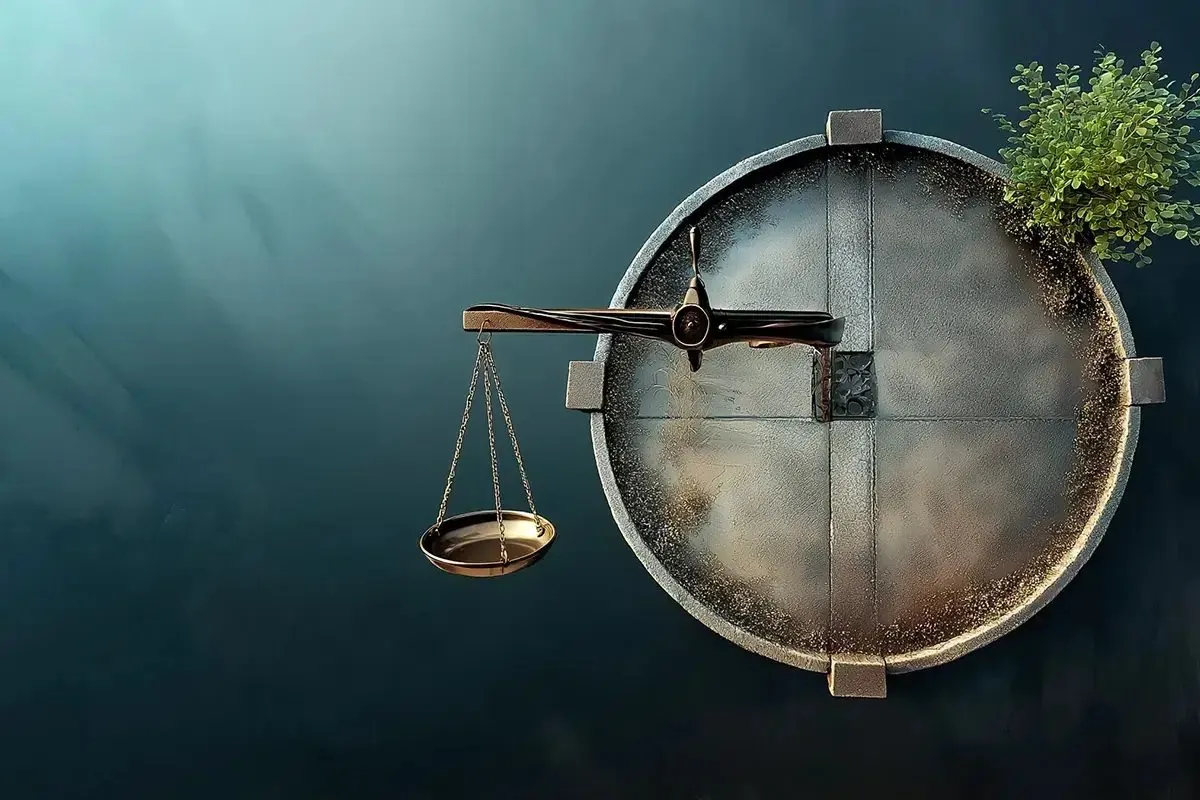
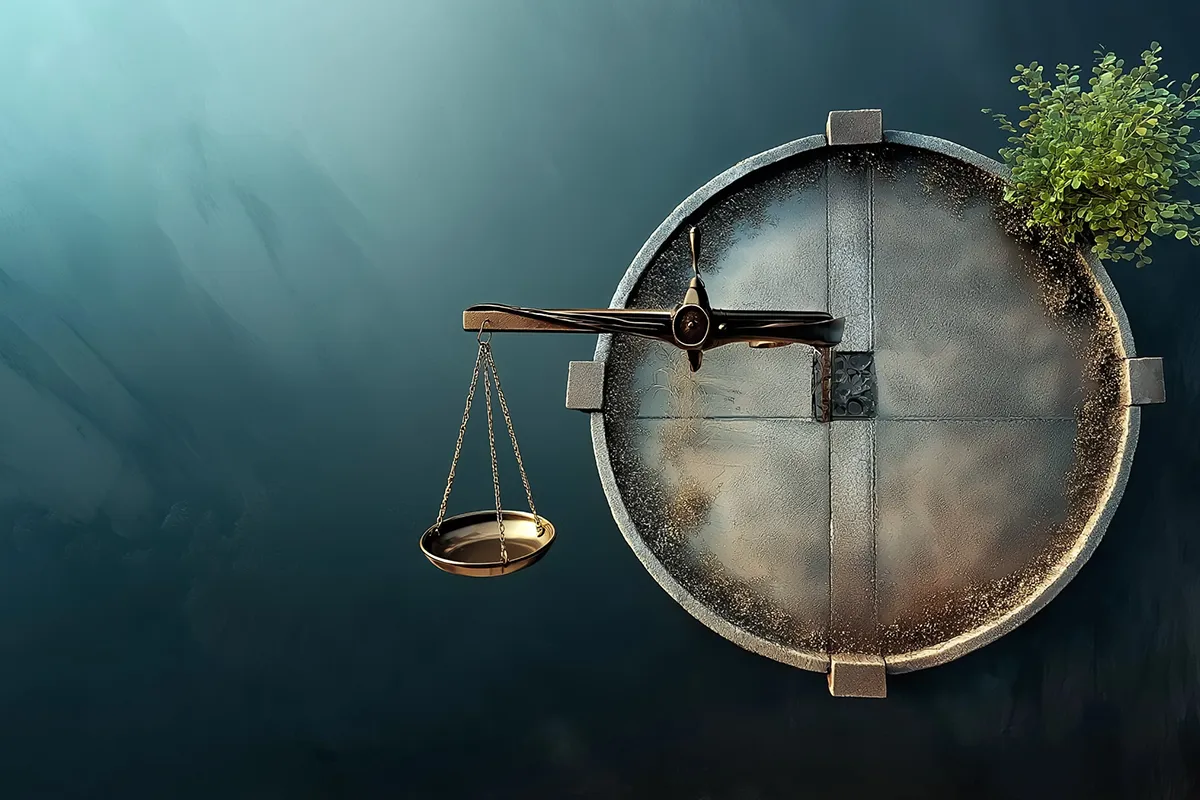
Fotos a color, sin recomprimir y sin ampliar
- Vuelven a color (las prefiere Costi)
- Se usan los archivos originales del backup en lugar de copias recomprimidas
- La banda se alinea con el ancho del contenido, para no ampliar fotos de 1200 px

Claude-Session: https://claude.ai/code/session_01VzFi1JvKP2KNUvey29o5pg

Changed region(s): [[0.8633, 0.25, 0.8942, 0.2812], [0.8633, 0.1875, 0.8942, 0.2188]]

diff --git a/index.html b/index.html
@@ -16,7 +16,7 @@ description: "Asesoramiento legal en derecho civil, sucesiones y mercantil. Cons
   <img class="portada__retrato" src="{{ '/assets/img/constanza-sitja-800.webp' | relative_url }}" srcset="{{ '/assets/img/constanza-sitja-800.webp' | relative_url }} 646w, {{ '/assets/img/constanza-sitja.webp' | relative_url }} 900w" sizes="(min-width: 900px) 360px, 90vw" width="360" height="446" alt="Retrato de Constanza Sitjà">
 </section>
 
-<div class="banda"><img style="object-position: center 58%" class="banda-foto banda-foto--alta" src="{{ '/assets/img/inicio.webp' | relative_url }}" srcset="{{ '/assets/img/inicio-800.webp' | relative_url }} 800w, {{ '/assets/img/inicio.webp' | relative_url }} 1200w" sizes="100vw" alt="" loading="lazy"></div>
+<div class="banda"><img style="object-position: center 58%" class="banda-foto banda-foto--alta" src="{{ '/assets/img/inicio.webp' | relative_url }}" srcset="{{ '/assets/img/inicio-800.webp' | relative_url }} 800w, {{ '/assets/img/inicio.webp' | relative_url }} 1200w" sizes="(min-width: 1200px) 1200px, 100vw" alt="" loading="lazy"></div>
 
 <section class="areas-resumen" aria-label="Ámbito de práctica">
   <div class="contenedor areas-resumen__rejilla">

diff --git a/assets/css/main.css b/assets/css/main.css
@@ -67,12 +67,11 @@ p { margin: 0; }
 .menu a[aria-current="page"] { border-bottom-color: var(--verde); }
 
 /* Fotos en banda */
-.banda { position: relative; background: var(--verde); }
-/* Fotos en blanco y negro, como el retrato. Para volver al velo verde:
-   .banda::after { content: ""; position: absolute; inset: 0; background: var(--verde); mix-blend-mode: color; opacity: 0.25; } */
-.banda .banda-foto { filter: grayscale(1) contrast(1.05); }
-.banda-foto { width: 100%; height: clamp(220px, 23vw, 440px); object-fit: cover; }
-.banda-foto--alta { height: clamp(240px, 30vw, 560px); }
+.banda { position: relative; max-width: calc(var(--ancho) - 64px); margin: 0 auto; }
+/* Las fotos de origen miden unos 1200 px: la banda se alinea con el contenido para no ampliarlas */
+
+.banda-foto { width: 100%; height: clamp(220px, 23vw, 300px); object-fit: cover; }
+.banda-foto--alta { height: clamp(240px, 30vw, 380px); }
 
 /* Portada */
 .portada { display: flex; flex-wrap: wrap; align-items: center; gap: 56px; padding-top: 96px; padding-bottom: 88px; }

diff --git a/la-firma.html b/la-firma.html
@@ -4,7 +4,7 @@ title: "La firma"
 permalink: /la-firma/
 description: "Despacho especializado en derecho civil, sucesiones y mercantil. Asesoría jurídica con trato directo, compromiso y experiencia en Barcelona."
 ---
-<div class="banda"><img style="object-position: center 50%" class="banda-foto" src="{{ '/assets/img/la-firma.webp' | relative_url }}" srcset="{{ '/assets/img/la-firma-800.webp' | relative_url }} 800w, {{ '/assets/img/la-firma.webp' | relative_url }} 1200w" sizes="100vw" alt=""></div>
+<div class="banda"><img style="object-position: center 50%" class="banda-foto" src="{{ '/assets/img/la-firma.webp' | relative_url }}" srcset="{{ '/assets/img/la-firma-800.webp' | relative_url }} 800w, {{ '/assets/img/la-firma.webp' | relative_url }} 1200w" sizes="(min-width: 1200px) 1200px, 100vw" alt=""></div>
 
 <section class="firma contenedor">
   <img class="firma__retrato" src="{{ '/assets/img/constanza-sitja.webp' | relative_url }}" width="400" height="496" alt="Retrato de Constanza Sitjà">

diff --git a/ambito-de-practica.html b/ambito-de-practica.html
@@ -4,7 +4,7 @@ title: "Ámbito de práctica"
 permalink: /ambito-de-practica/
 description: "Especialista en derecho civil, sucesiones, mercantil y mediación. Soluciones legales y extrajudiciales con trato cercano y profesional en Barcelona."
 ---
-<div class="banda"><img style="object-position: center 62%" class="banda-foto" src="{{ '/assets/img/ambito.webp' | relative_url }}" srcset="{{ '/assets/img/ambito-800.webp' | relative_url }} 800w, {{ '/assets/img/ambito.webp' | relative_url }} 1920w" sizes="100vw" alt=""></div>
+<div class="banda"><img style="object-position: center 62%" class="banda-foto" src="{{ '/assets/img/ambito.webp' | relative_url }}" srcset="{{ '/assets/img/ambito-800.webp' | relative_url }} 800w, {{ '/assets/img/ambito.webp' | relative_url }} 2000w" sizes="(min-width: 1200px) 1200px, 100vw" alt=""></div>
 
 <section class="ambito contenedor">
   <p class="etiqueta">Ámbito de práctica</p>

diff --git a/contacto.html b/contacto.html
@@ -4,7 +4,7 @@ title: "Contacto"
 permalink: /contacto/
 description: "¿Necesitas asesoramiento legal? Contacta con Constanza Sitjà, abogada en Barcelona. Atención directa, cercana y profesional en derecho civil y mercantil."
 ---
-<div class="banda"><img style="object-position: center 72%" class="banda-foto" src="{{ '/assets/img/contacto.webp' | relative_url }}" srcset="{{ '/assets/img/contacto-800.webp' | relative_url }} 800w, {{ '/assets/img/contacto.webp' | relative_url }} 1200w" sizes="100vw" alt=""></div>
+<div class="banda"><img style="object-position: center 72%" class="banda-foto" src="{{ '/assets/img/contacto.webp' | relative_url }}" srcset="{{ '/assets/img/contacto-800.webp' | relative_url }} 800w, {{ '/assets/img/contacto.webp' | relative_url }} 1200w" sizes="(min-width: 1200px) 1200px, 100vw" alt=""></div>
 
 <section class="contacto contenedor">
   <div class="contacto__datos">
